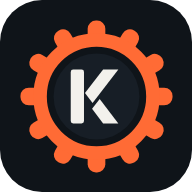
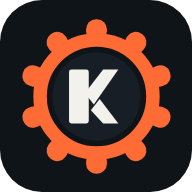
Redraw the mark: ten teeth and a heavier K
Both changes are about what survives being small.

Twelve fine teeth aliased into a fuzzy ring at 16px, where the mark spends
most of its life in a browser tab. Ten fatter ones stay individually
visible. The letter had the same problem from the other direction: a 5.4
stem was the first thing to disappear when the mark shrank, so it is now
8.05 and the diagonals are scaled to match. The hub grew from r17.5 to r18
to give the heavier letter room.

Favicon and all three launcher icons regenerated from the same geometry, so
the tab, the phone and the bar cannot drift apart.

Re-verified in the browser: ten teeth in the DOM, stem width 8.05, wordmark
still KYGS in rgb(230,237,243) and MOTO in rgb(255,107,53) by computed
style, tagline still absent, no console errors, all four icons serving. The
circle-crop test on the maskable icon still keeps every tooth.

Claude-Session: https://claude.ai/code/session_01MfjmgSZ62oHXY5hJcK5297

diff --git a/frontend/src/components/BrandMark.tsx b/frontend/src/components/BrandMark.tsx
@@ -2,9 +2,12 @@
  * KYGSMOTO's mark: a drive sprocket with a K in the hub.
  *
  * A sprocket rather than a generic wheel or wrench because it is the part a
- * parts-and-service shop actually touches, and because the toothed silhouette
- * stays recognisable at 16px in a browser tab where finer detail would blur.
- * The K is for Kygs — the name over the door.
+ * parts-and-service shop actually touches, and the K is for Kygs — the name
+ * over the door.
+ *
+ * Ten teeth rather than twelve, and a heavy letter rather than a light one,
+ * because both are what survives 16px in a browser tab: twelve fine teeth
+ * blur into a fuzzy ring and a thin stem is the first thing to disappear.
  *
  * Drawn rather than imported so it inherits the app's tokens and stays crisp
  * at any size. The hub is filled with the bar colour so the letter reads on
@@ -15,21 +18,21 @@ export default function BrandMark({ size = 28 }: { size?: number }) {
     <svg width={size} height={size} viewBox="0 0 64 64" fill="none"
          role="img" aria-label="KYGSMOTO">
       <g fill="var(--accent)">
-        {TEETH.map((rotate, i) => (
-          <rect key={i} x="28.40" y="1.00" width="7.2" height="9" rx="3.4"
-                transform={`rotate(${rotate} 32 32)`} />
+        {TEETH.map((angle) => (
+          <rect key={angle} x="27.75" y="0.5" width="8.5" height="9" rx="4.05"
+                transform={`rotate(${angle} 32 32)`} />
         ))}
       </g>
       <circle cx="32" cy="32" r="23" fill="none" stroke="var(--accent)" strokeWidth="5.5" />
-      <circle cx="32" cy="32" r="17.5" fill="var(--nav)" />
+      <circle cx="32" cy="32" r="18" fill="var(--nav)" />
       <g fill="var(--ink)">
-        <rect x="21.5" y="21" width="5.4" height="22" rx="1" />
-        <path d="M40.9 21h-6.2l-7.4 9.6 3.1 4.1z" />
-        <path d="M34.7 43h6.2l-7.6-10 -3.1 4z" />
+        <rect x="20.8" y="21" width="8.05" height="22" rx="1" />
+        <path d="M40.9 21h-6.2l-7.4 9.6 3.6 4.7z" />
+        <path d="M34.7 43h6.2l-7.6-10 -3.6 4.6z" />
       </g>
     </svg>
   )
 }
 
-/** Twelve teeth, spaced by division rather than by eye. */
-const TEETH = Array.from({ length: 12 }, (_, i) => (360 * i) / 12)
+/** Ten teeth, spaced by division rather than by eye. */
+const TEETH = Array.from({ length: 10 }, (_, i) => (360 * i) / 10)

diff --git a/README.md b/README.md
@@ -222,7 +222,9 @@ When uploading a full `.xlsm` for sales, the importer prefers the **SALES** shee
 A drive sprocket with a **K** in the hub — K for Kygs, the name over the door;
 a sprocket because it is the part a parts-and-service shop actually touches,
 and because a toothed silhouette still reads at 16px in a browser tab where
-finer detail turns to mush.
+finer detail turns to mush. Ten teeth and a heavy letter for the same reason:
+twelve fine teeth blur into a ring at tab size, and a thin stem is the first
+thing to go.
 
 It is drawn in `frontend/src/components/BrandMark.tsx` rather than imported,
 so it inherits the app's colour tokens and stays crisp at any size. The hub is
